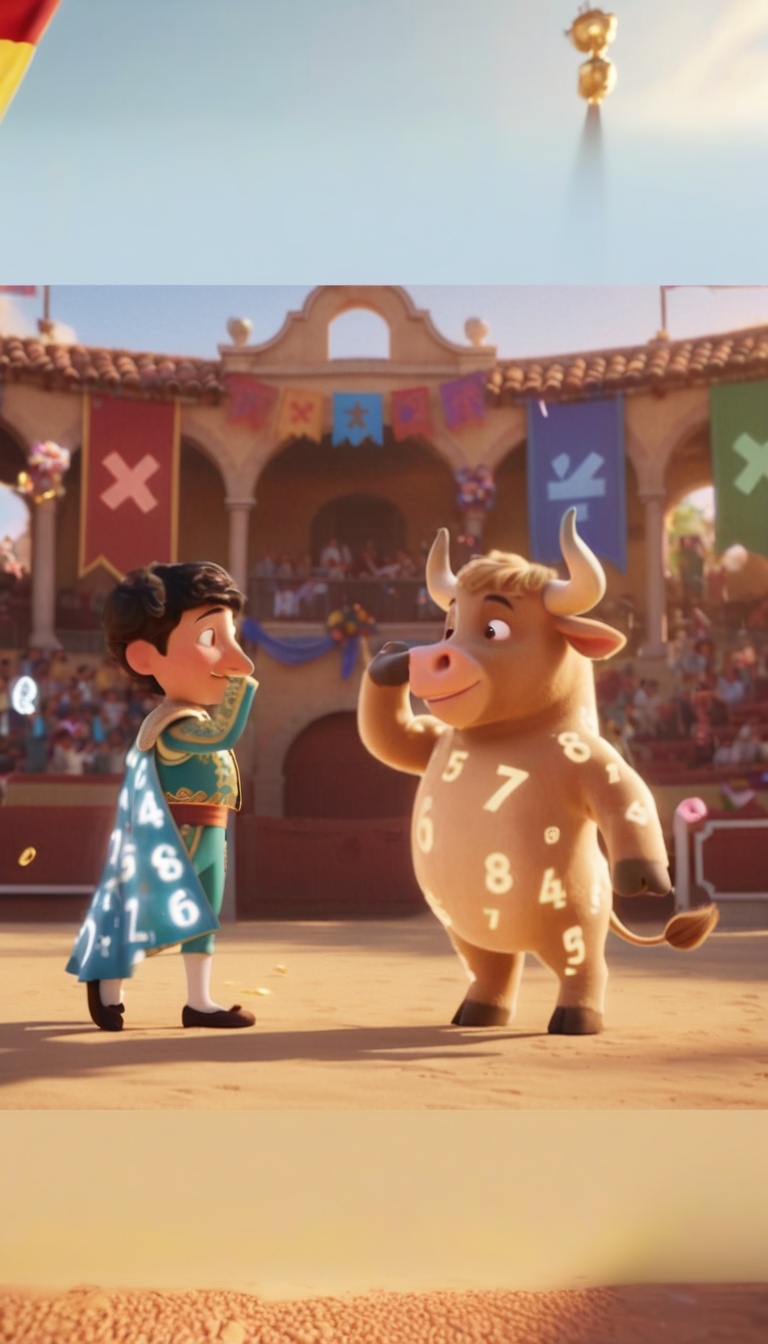
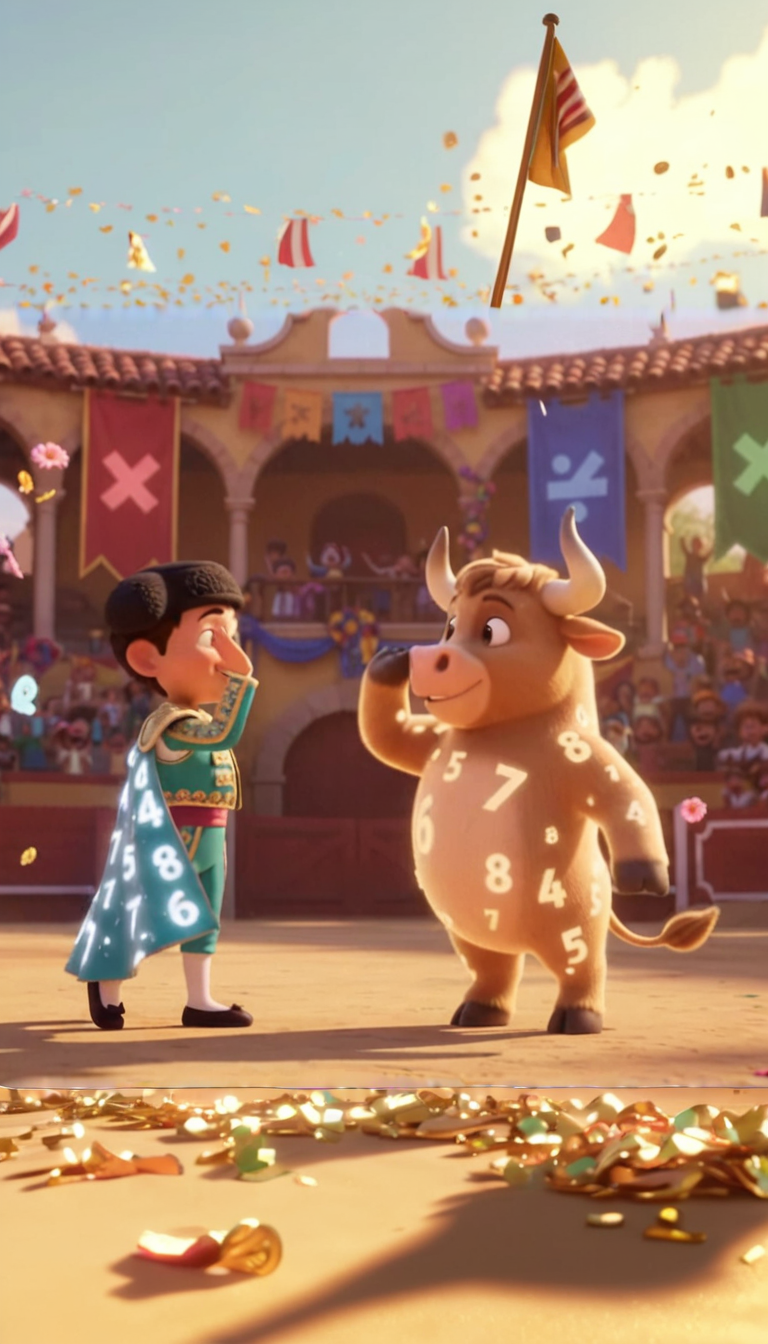
Add a visual, tweakable ComfyUI workflow for future screen art
Everything so far was submitted straight to ComfyUI's API, which
never surfaces in the app's own GUI - nothing was visible or
tweakable there. mathematador-universal.json is a proper UI-format
graph (saved live at D:\confyiu\user\default\workflows\mathematador.json,
this is a backup copy) using ComfyUI's built-in ImagePadForOutpaint +
VAEEncodeForInpaint nodes, which pad/feather/mask an image in one
purpose-built step instead of the hand-rolled two-pass technique this
folder used before. Also updates Home's background with a result from
this cleaner approach, which removed the residual seam the two-pass
version still had.

diff --git a/mathematador-app/assets/working/comfy-workflows/README.md b/mathematador-app/assets/working/comfy-workflows/README.md
@@ -74,7 +74,31 @@ what actually preserves it.** All three couple-scene workflows now use this;
 apply it to any future one seeding from a frame where the bull's numbers
 need to stay legible.
 
-## Key finding: the low-denoise couple scenes need a second masked pass
+## The visual, tweakable graph — `mathematador-universal.json`
+
+Everything above was submitted straight to ComfyUI's `/prompt` API
+(`comfy-mcp`'s `run_workflow`), which runs a workflow but never loads it into
+the ComfyUI GUI's canvas — nothing was ever visible/tweakable in the app
+window. `mathematador-universal.json` fixes that: it's a proper UI-format
+graph (node positions, visible links, an on-canvas usage note), saved at
+`D:\confyiu\user\default\workflows\mathematador.json` so it shows up directly
+in the ComfyUI Desktop app's own Workflows sidebar — open it there to inspect
+or hand-tweak any node. This copy in the repo is a backup; the live one to
+edit is the one in ComfyUI's own user-data folder.
+
+It also uses a cleaner technique than the two-pass hack below: ComfyUI's
+built-in `ImagePadForOutpaint` + `VAEEncodeForInpaint` nodes do the
+pad+feather+mask in one built-for-purpose step, instead of a hand-rolled
+Python mask script and a separate second workflow. Feed it any unpadded
+character crop (`reference-couple-gesture-unpadded.png` is the one currently
+loaded) and it extends it to a full portrait background in a single
+KSampler pass, with the character region fully protected regardless of the
+(intentionally 1.0) denoise value — read the note node on the canvas itself
+for the exact how-to. **Prefer this graph over the `screen-*.json` /
+`screen-*-extend.json` two-pass approach below for anything new**; that
+section is kept only as a record of what didn't work as well.
+
+## Key finding: the low-denoise couple scenes need a second masked pass (superseded, see above)
 
 The denoise-0.3 fix above (preserving the bull's numbers) leaves the solid
 sky-blue/sand-tan padding bands from the seed-image construction almost
